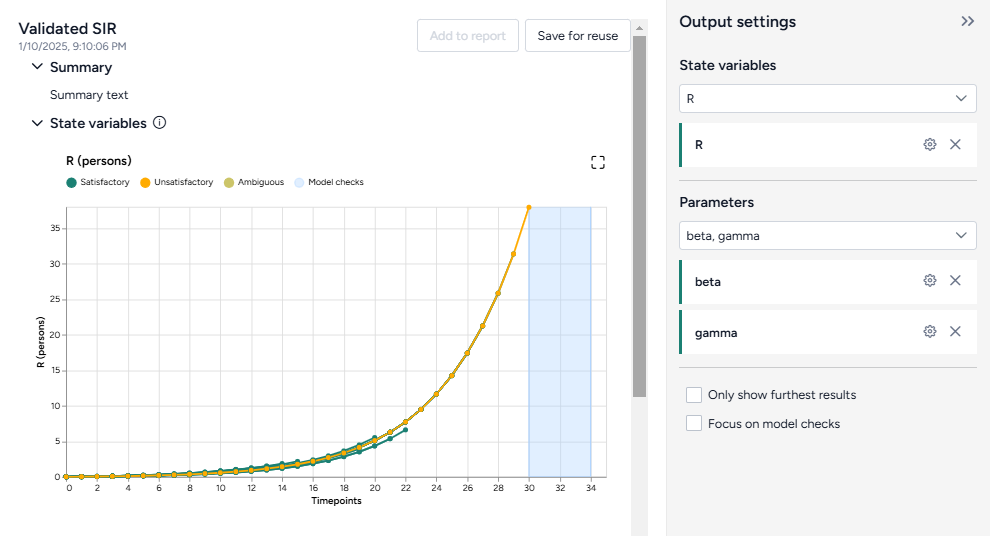
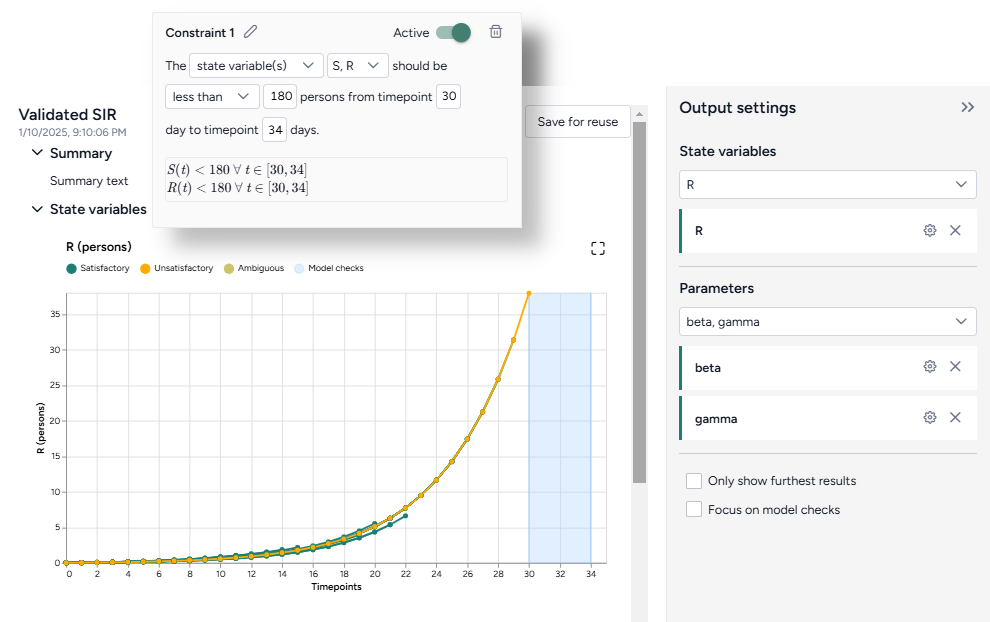
#38 WIP tips and troubleshooting edits

diff --git a/docs/config-and-intervention/validate-model-configuration.md b/docs/config-and-intervention/validate-model-configuration.md
@@ -18,7 +18,10 @@ The Validate configuration operator takes a model configuration and an optional 
 
 ???+ tip
     
-    The input configuration should include some distribution on the parameters to allow for an exploration of the parameter space.
+    When [setting up the input configuration](configure-model.md#edit-or-create-a-model-configuration):
+
+    - Include some distribution on the parameters to allow for an exploration of the parameter space.
+    - For better results, you can set constant parameter values as distributions rather than point values. For example, instead of setting a parameter to `0`, set it to a Uniform distribution from `0` to `0`. 
 
 <figure markdown>
 ![](../img/config-and-intervention/validate/validate-configuration-operator.png)
@@ -76,6 +79,20 @@ Compartmental constraints provide a simple validation layer for your model confi
 - The model state populations are preserved.
 
 ![](../img/config-and-intervention/validate/compartmental-constraints.png)
+
+???+ tip
+
+    In cases where the compartmental constraint doesn't work properly, try defining it as a custom constraint:
+
+    1. Prompt the [Edit model](../modeling/edit-model.md#use-the-ai-assistant-to-edit-a-model) AI assistant to:
+
+        ```{ .text .wrap }
+        Create an observable that is the sum of all compartments
+        ```
+    2. Create a new [configuration](../configure-model.md) for the edited model.
+    2. Add a custom constraint with the following values:
+
+        - 
 
 ??? list "Turn the compartmental constraints on or off"
 
@@ -202,7 +219,7 @@ The validated configuration is displayed as a series of plots showing the satisf
 
     - Click **Only show furthest results**.
 
-### States time-series
+### State variable time-series
 
 State variable plots provide a time-series view of how model variables evolve over time. They offer a visual representation of how well the model satisfies constraints and checks under different parameter combinations. There is one trajectory per sampled point in the parameter space:
 
@@ -212,7 +229,6 @@ State variable plots provide a time-series view of how model variables evolve ov
 - Light blue boxes show the constraints you set up.
 
 ![](../img/config-and-intervention/validate/state-variables.png)
-
 
 ??? list "Show or hide state variable plots"
 
@@ -252,3 +268,22 @@ Parameter plots allow you to explore how variations in model parameters influenc
     When analyzing model behavior, intermediate results can sometimes make it hard to focus on the most comprehensive outcomes. You can instead display only the most extensive calculations performed for each combination of parameter values. This shows the final iteration where the model has computed the farthest timepoint necessary to ensure all checks either pass or fail.
 
     - Click **Only show furthest results**.
+
+## Troubleshooting
+
+### Long run-times
+
+If your validation is taking too long, try editing your constraints to run on a small number of timepoints, such as 0&ndash;5 days. This can help you find: 
+
+- Parameter ranges to drop. For example, if you have an infection rate of 0.1&ndash;0.9, you may notice during early validation that values above 0.8 result in immediate system instability. In this case, you can narrow the parameter range to 0.1&ndash;0.8.
+- More required constraints. For example, if early validation results are unexpected or inconsistent, there may be missing constraints, such as one limiting initial values or ensuring consistency between parameters.
+
+Resolving either of these cases can help you reduce the time required for the full validation.
+
+### Missing boxes
+
+If no boxes are returned, it often means the entire parameter range is unsatisfactory. Try running validation again with a wider parameter ranges.
+
+## Next steps
+
+You can use the new validated configuration in [simulations](../simulation/simulate-model.md) to forecast, analyze, or explore system behavior based on the validated parameters. The validation eliminates the need to manually reconfigure or adjust inputs between these steps.
